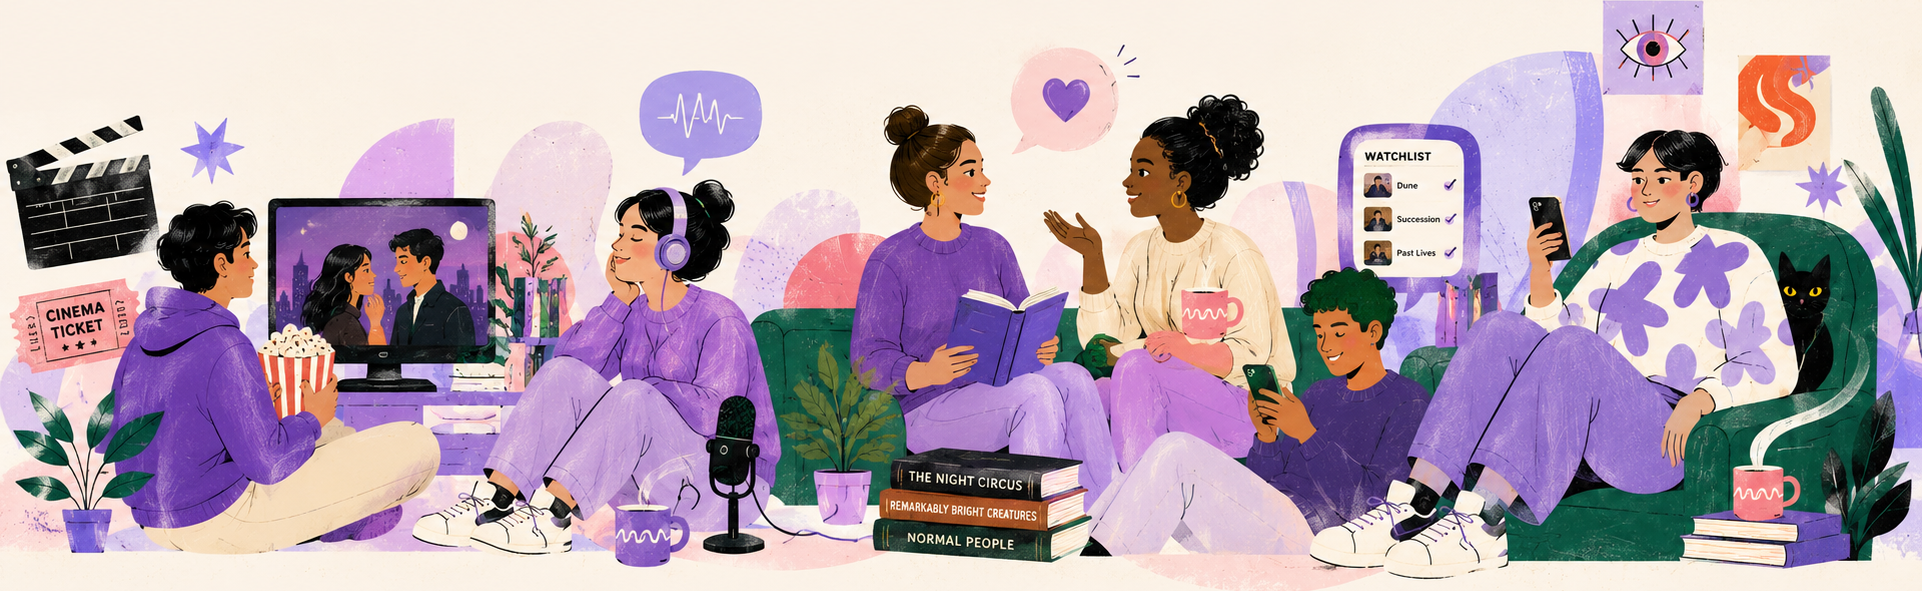
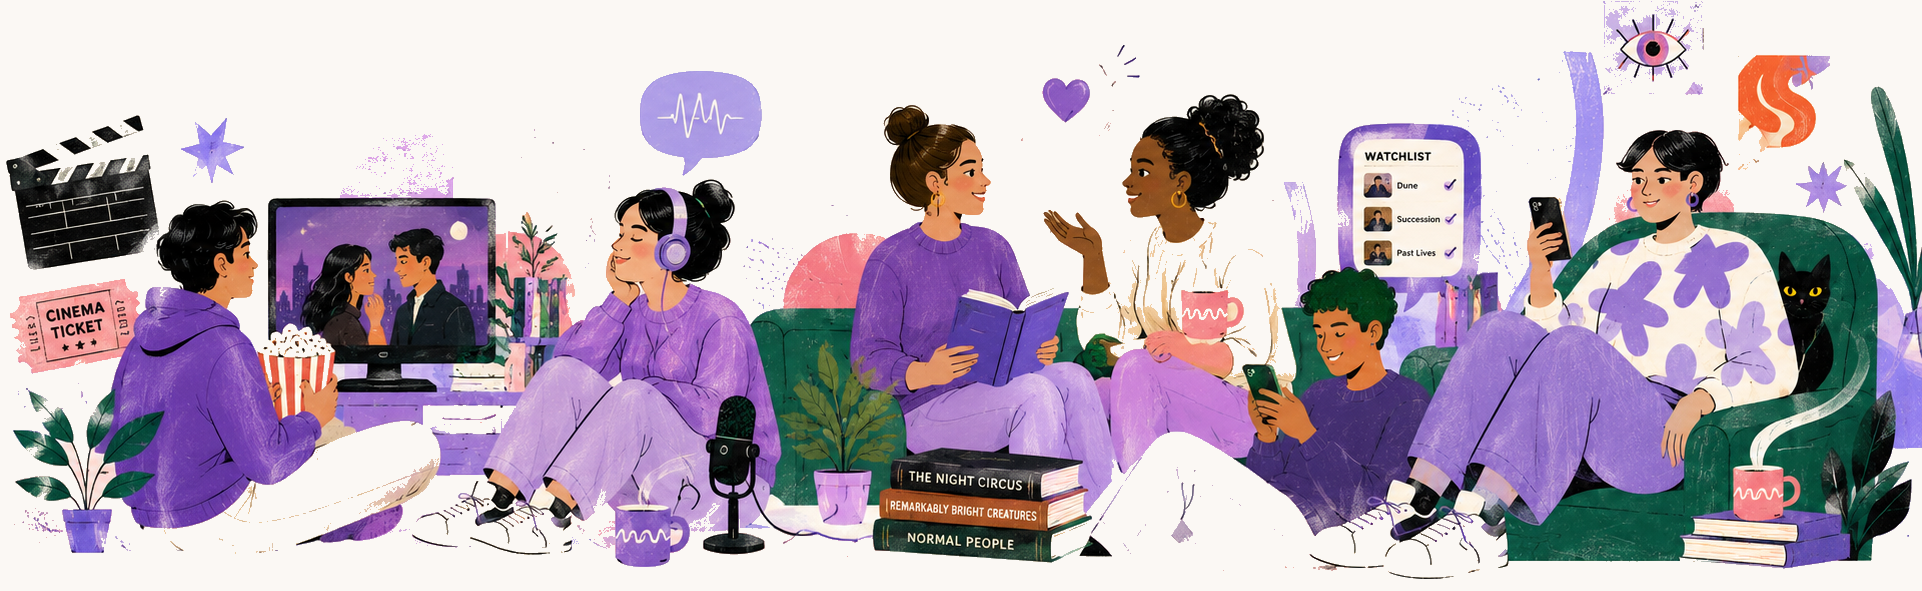
Lighten the background color to a creamier white
Update background CSS variables and hero section background color to a lighter cream (#fbf8f4) to meet user request.

Replit-Commit-Author: Agent
Replit-Commit-Session-Id: 1054afe4-a81a-4bfc-9d50-b308ff59b433
Replit-Commit-Checkpoint-Type: full_checkpoint
Replit-Commit-Event-Id: 66f50be8-81c5-4530-ad7f-5e3ae7327784
Replit-Commit-Screenshot-Url: https://storage.googleapis.com/screenshot-production-us-central1/3ba4014b-a542-439a-b8e3-25ffaea1718b/1054afe4-a81a-4bfc-9d50-b308ff59b433/v5uZi8Y
Replit-Helium-Checkpoint-Created: true

diff --git a/client/src/pages/home.tsx b/client/src/pages/home.tsx
@@ -289,7 +289,7 @@ export default function Home() {
 
       <main>
         {/* 2. HERO */}
-        <section className="pt-24 md:pt-28 pb-0 relative overflow-hidden bg-[#faf0e6]" id="features">
+        <section className="pt-24 md:pt-28 pb-0 relative overflow-hidden bg-[#fbf8f4]" id="features">
           <div className="absolute top-1/2 left-1/2 -translate-x-1/2 -translate-y-1/2 w-[800px] h-[600px] bg-primary/10 rounded-full blur-[100px] -z-10 pointer-events-none" />
           <div className="absolute top-1/4 right-0 w-[500px] h-[500px] bg-pink-300/10 rounded-full blur-[80px] -z-10 pointer-events-none" />
 

diff --git a/client/src/index.css b/client/src/index.css
@@ -37,7 +37,7 @@
 
 :root {
   /* Background: Warm cream/off-white */
-  --background: 40 33% 96%; /* #f7f3ec ish */
+  --background: 34 47% 97%; /* #fbf8f4 */
   --foreground: 265 30% 12%; /* Deep purple-ink */
   
   /* Cards: Pure white */
